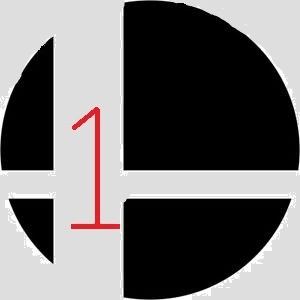
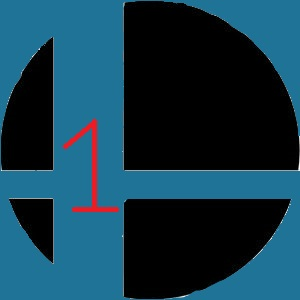
blue done version

diff --git a/index.html b/index.html
@@ -16,7 +16,7 @@
       <a href="#footer">Contact Info</a>
     </div>
   </header>
-  </div>
+    </div>
 
   <!-- <div class="banner"> -->
     <!-- <p> Falcon dittos welcome</p> -->
@@ -30,8 +30,8 @@
       width="200"
       height="100" /> -->
       <div class="more-spacing">
-        <p>Join us every  friday. Snacks and drinks will be provided.</p>
-        <h2> Play Of The Week </h2>
+        <p class="make-text-white">Join us every  friday. Snacks and drinks will be provided.</p>
+        <h2 class="make-text-white"> Play Of The Week </h2>
       </div>
     </section>
 
@@ -40,14 +40,14 @@
         <iframe width="500" height="280" src="https://www.youtube.com/embed/9k0SpW2tTMs?start=116" frameborder="0" allow="accelerometer; autoplay; encrypted-media; gyroscope; picture-in-picture" allowfullscreen></iframe>
       </div>
       <div class="column border">
-        <p> <strong>Holytankman (Captian Falcon)</strong></p>
-        <p> <strong>Vs.</strong> </p>
-        <p> <strong>Lamp (Rosalina & Luma)</strong> </p>
+        <p class="make-text-white"> <strong>Holytankman (Captian Falcon)</strong></p>
+        <p class="make-text-white"> <strong>Vs.</strong> </p>
+        <p class="make-text-white"> <strong>Lamp (Rosalina & Luma)</strong> </p>
       </div>
     </section>
 
     <section class="text-resize">
-      <h5> Top Merritt Players </h5>
+      <h5 class="make-text-white"> Top Merritt Players </h5>
     </section>
 
     <section>
@@ -59,18 +59,18 @@
       </div>
       <div class="column border">
         <ol>
-          <li>Holytankman</li>
-          <li>Thicc Boi</li>
-          <li>Lamp</li>
+          <li class="make-text-white">Holytankman</li>
+          <li class="make-text-white">Thicc Boi</li>
+          <li class="make-text-white">Lamp</li>
         </ol>
       </div>
     </section>
 
     <section>
         <div class="loaction text-resize">
-          <h2> Location </h2>
+          <h2 class="make-text-white"> Location </h2>
         </div>
-          <p class="align-right align-center"> The Games will be held in the theatre room</a> of the <a href="https://www.google.com/maps/place/4155+Belshaw+St,+Merritt,+BC+V1K+1P4/@50.1248532,-120.7695649,17z/data=!3m1!4b1!4m5!3m4!1s0x548191216b751429:0xfbd3fd1c9eec2607!8m2!3d50.1248532!4d-120.7673762" target="blank"> NVIT Collage. </a> </p>
+          <p class="align-right align-center make-text-white"> The Games will be held in the theatre room</a> of the <a href="https://www.google.com/maps/place/4155+Belshaw+St,+Merritt,+BC+V1K+1P4/@50.1248532,-120.7695649,17z/data=!3m1!4b1!4m5!3m4!1s0x548191216b751429:0xfbd3fd1c9eec2607!8m2!3d50.1248532!4d-120.7673762" target="blank"> NVIT Collage. </a> </p>
 
         <div class="column padding-left">
           <img src="images/gaming-room.jpg"
@@ -88,7 +88,7 @@
 
     <section class="margin-top">
       <div class="column padding-top">
-          <h5 class="text-resize"> Most Used <a href="https://www.smashbros.com/en_US/fighter/index.html" target="_blank">Characters</a></h5>
+          <h5 class="text-resize make-text-white"> Most Used <a href="https://www.smashbros.com/en_US/fighter/index.html" target="_blank">Characters</a></h5>
           <p> <img src="images/smashguys.PNG"
           alt="smashguys"
           width="500"
@@ -96,21 +96,21 @@
       </div>
       <div class="column">
         <ul>
-          <li> Captain Falcon </li>
-          <li> Lucas </li>
-          <li> King Dedede </li>
+          <li class="make-text-white"> Captain Falcon </li>
+          <li class="make-text-white"> Lucas </li>
+          <li class="make-text-white"> King Dedede </li>
         </ul>
       </div>
     </section>
 
     <section class="training">
       <!-- <div class="image"> -->
-        <h6 class="training text-resize"> Training For New Players </h6>
+        <h6 class="training text-resize make-text-white"> Training For New Players </h6>
       <div class="column">
         <p> <iframe width="500" height="280" src="https://www.youtube.com/embed/N3OcXuwN6nw?start=2" frameborder="0" allow="accelerometer; autoplay; encrypted-media; gyroscope; picture-in-picture" allowfullscreen></iframe> </p>
       </div>
       <div class="column border">
-        <p class="move-right">Here Is A Training Video On How To Play Super Smash Bros.</p>
+        <p class="move-right make-text-white">Here Is A Training Video On How To Play Super Smash Bros.</p>
       </div>
       <!-- </div> -->
     </section>
@@ -150,12 +150,12 @@
         height="32" /> </a>
         </p>
     </div>
-        <p> Come join us and <strong>Lets Smash!</strong> </p>
-        <a href="#top">Back to Top</a>
-        <div class="nintendo">
-          <p> Source </p>
-          <p> All images but the loaction are owned by nintendo.</p>
-        </div>
+      <p> Come join us and <strong class="strong-color">Lets Smash!</strong> </p>
+      <a href="#top">Back to Top</a>
+    <div class="nintendo">
+      <p class="strong-color_2"> Source </p>
+      <p class="strong-color_2"> All images but the loaction are owned by  nintendo.</p>
+    </div>
     </div>
   </footer>
 </body>

diff --git a/style.css b/style.css
@@ -9,7 +9,7 @@
 }
 
 body {
-  background-color: #dedede;
+  background-color: #1f7397;
   /* color: green; */
   font-family: arial;
   font-size: 20px;
@@ -261,6 +261,7 @@ header {
 
 .column p {
   padding-bottom: 20px;
+  color: white;
 }
 
 .border {
@@ -272,7 +273,7 @@ header {
 .border p, li {
   padding-left: 50px;
   padding-top: 30px;
-  color: black;
+  color: white;
 }
 
 .text-resize {
@@ -312,4 +313,20 @@ h5 {
 .nintendo p {
   text-align: right;
   font-size: 10px
+}
+
+.make-text-white {
+  color: white;
+}
+
+strong {
+  color: white;
+}
+
+.strong-color {
+  color: green
+}
+
+.strong-color_2 {
+  color: red;
 }
